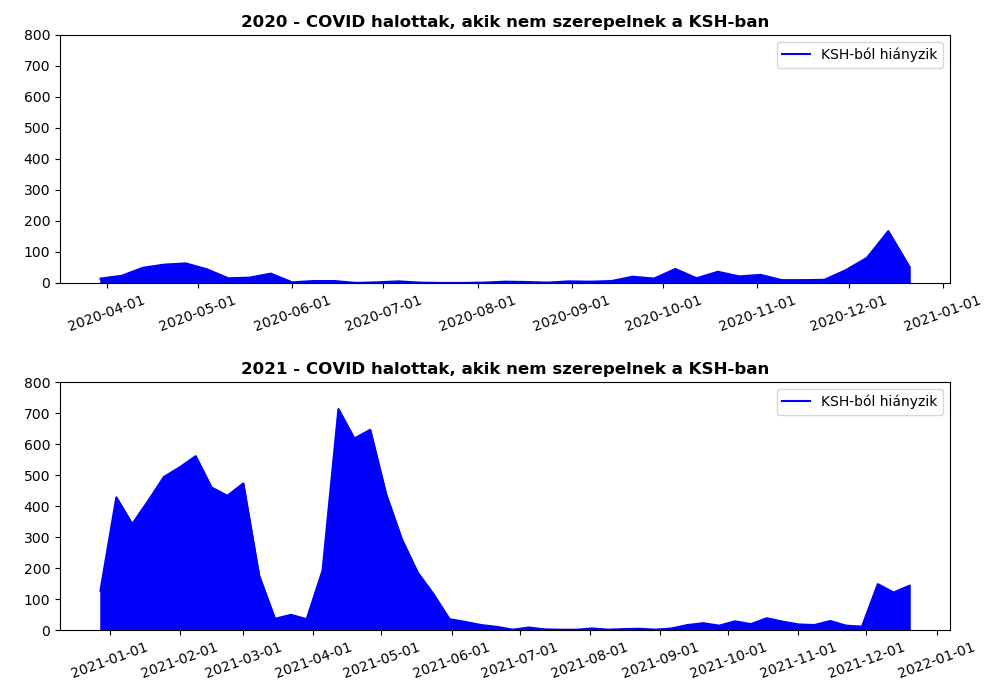
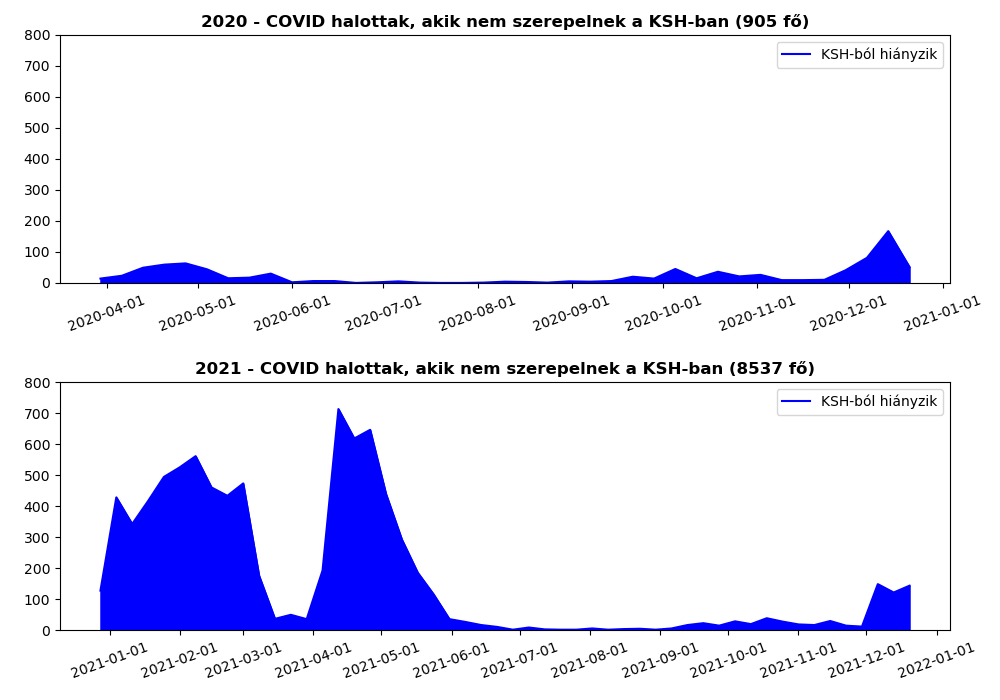
Akik hiányoznak

Changed region(s): [[0.217, 0.0, 0.806, 0.06], [0.186, 0.51, 0.806, 0.54]]

diff --git a/egyéb/kép_covid_halottak_ksh_nélkül.py b/egyéb/kép_covid_halottak_ksh_nélkül.py
@@ -134,6 +134,8 @@ for year in range(2020,2022):
         dfkshdiff['KSH-ból hiányzik'] = dfkshdiff['KSH-ból hiányzik'] + dfkshdiff['hiany ' + k]
 
 
+    meghaltvolna =  dfkshdiff['KSH-ból hiányzik'].sum()
+
     dfkshdiff['Dátum'] = dfkshdiff['A hét kezdő napja'] 
 
     maxhiany = 800
@@ -141,7 +143,7 @@ for year in range(2020,2022):
     ax10=fig.add_subplot(spec[year - 2020], label=str(year))
     ax10.plot(dfkshdiff['Dátum'], dfkshdiff['KSH-ból hiányzik'], color='blue', label="KSH-ból hiányzik")
     ax10.set_ylim([0,maxhiany])
-    ax10.set_title(str(year) + " - COVID halottak, akik nem szerepelnek a KSH-ban", fontweight='bold')
+    ax10.set_title(str(year) + " - COVID halottak, akik nem szerepelnek a KSH-ban (" + str(meghaltvolna) + " fő)", fontweight='bold')
     ax10.tick_params(axis='x', rotation=20)
     ax10.fill_between(dfkshdiff['Dátum'], dfkshdiff['KSH-ból hiányzik'], color="blue")
     ax10.xaxis.set_major_locator(mdates.MonthLocator(interval=1))
